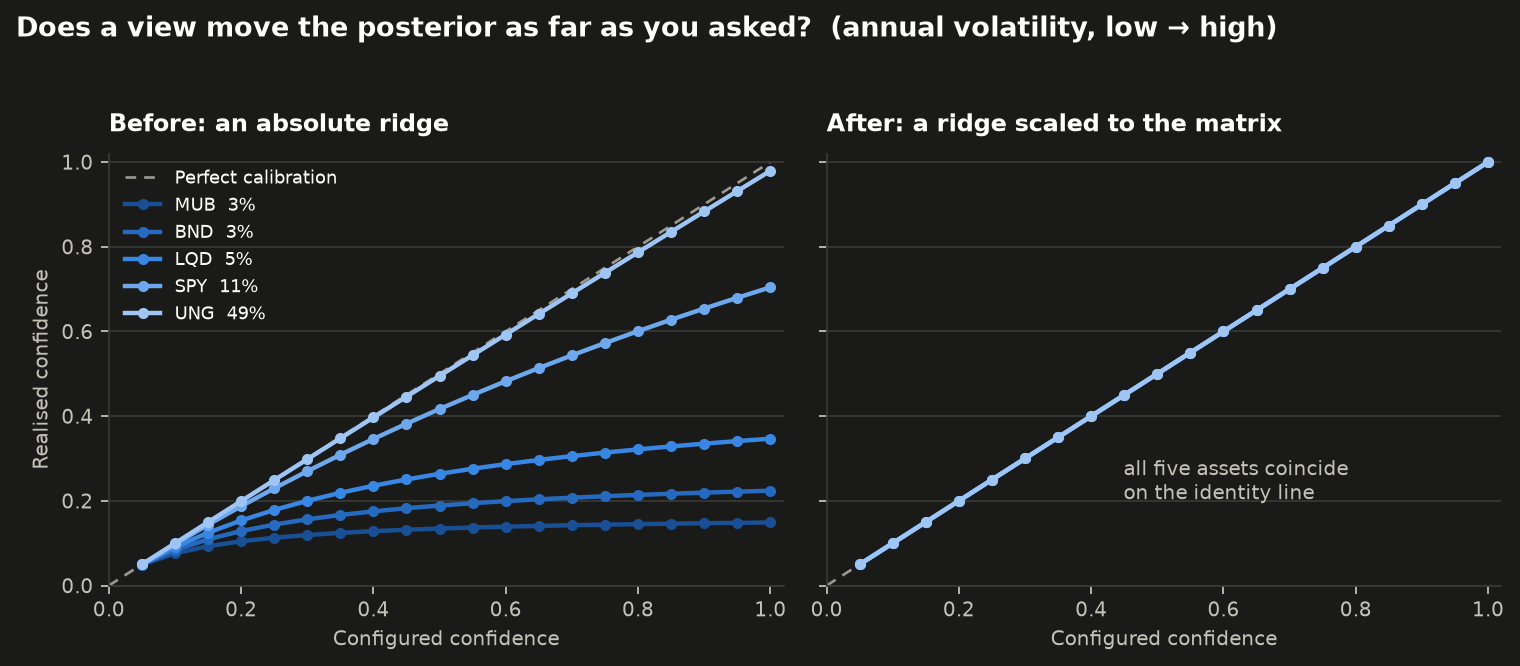
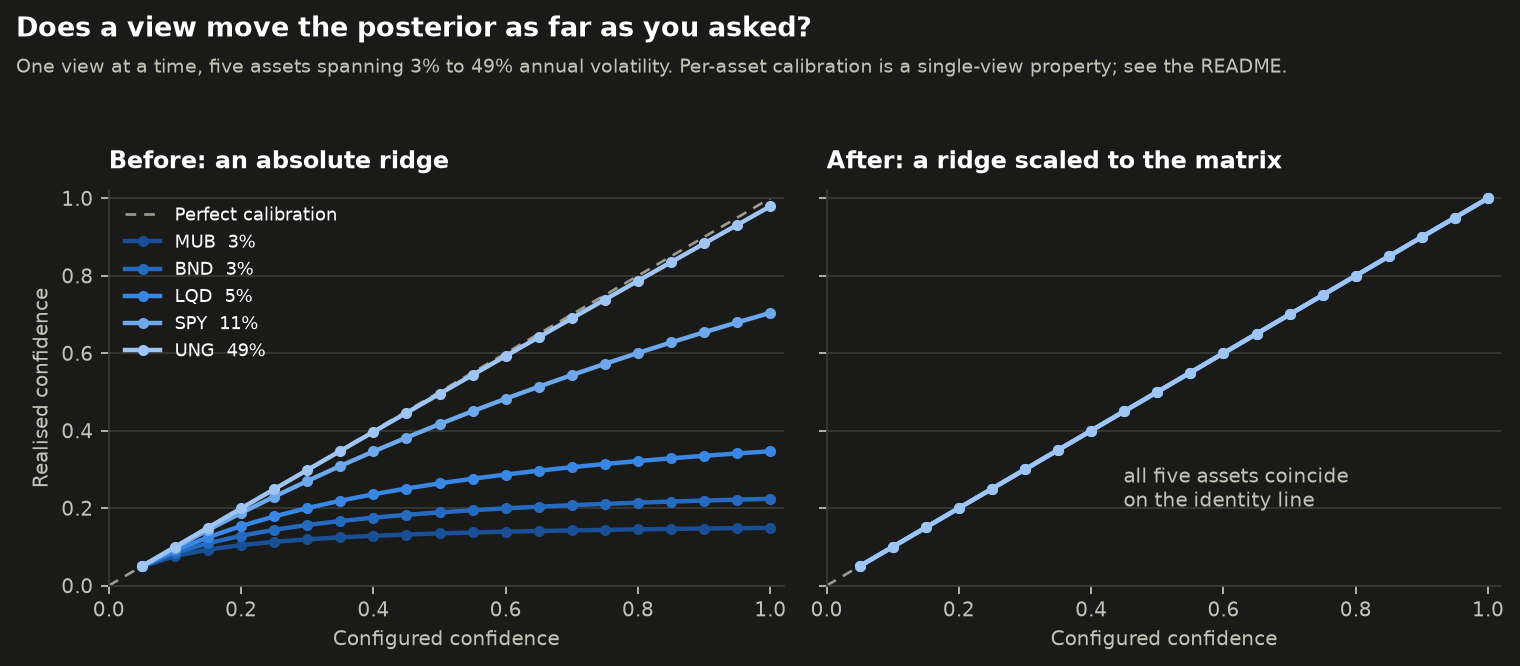
Scope the calibration claim to the single-view case
An adversarial review of the previous commit found that its headline claim
was true only in the regime it was tested in, and that the shipped default
is not that regime.

Setting Omega proportional to diag(P tau Sigma P') makes the posterior move
exactly the configured fraction c of the way toward a view when there is one
view, or when Sigma is diagonal. It does not do so per asset once several
views are active over a correlated Sigma, because Omega is diagonal while
the inverse of tau*Sigma is not, so each view's information is pooled across
correlated assets. The default use_sample_mean_views: true stacks one view
per asset, so that is exactly the configuration the project ships.

Measured on the last Buffett window at a configured 0.65, the per-asset
fraction ranges from -2.64 to 2.16: some assets move away from their own
view because a correlated neighbour's view outweighs it. Forcing Sigma
diagonal returns every asset to 0.65, which isolates the off-diagonal terms
as the cause. This is ordinary Bayesian updating with correlated evidence
rather than a defect, and it is unchanged by the previous commit: the
deviation is slightly smaller for Buffett and Pelosi afterwards and slightly
larger for Trump. But the README asserted a per-asset guarantee that the
model does not provide, and it had deleted the more careful caveat that
preceded it.

The verification gap was systematic and mine: all six tests added with the
[…]

diff --git a/tests/test_views.py b/tests/test_views.py
@@ -225,6 +225,49 @@ def test_realised_confidence_holds_for_relative_views() -> None:
         assert _realised_confidence(cov, pi, row, c) == pytest.approx(c, abs=1e-4)
 
 
+def _stacked_realised(cov: np.ndarray, pi: np.ndarray, q: np.ndarray, c: float) -> np.ndarray:
+    """Per-asset realised fraction when one view per asset is active at once."""
+    p = np.eye(len(pi))
+    omega = diagonal_omega_from_confidence(cov, p, tau=0.05, confidence=c)
+    mu, _ = black_litterman_posterior(pi, cov, p, q, tau=0.05, omega=omega)
+    return (mu - pi) / (q - pi)
+
+
+def test_stacked_views_are_calibrated_only_when_sigma_is_diagonal() -> None:
+    """Per-asset calibration is a single-view property, not a general one.
+
+    With one view per asset active at once, Omega is diagonal but (tau*Sigma)^-1
+    is not, so the posterior pools each view's information across correlated
+    assets. That is ordinary Bayesian updating, not a defect, but it means the
+    configured confidence is not a per-asset guarantee in the shipped default
+    configuration. This test pins the boundary so the limitation cannot be
+    documented away again.
+    """
+    correlated = np.array(
+        [[4.0e-4, 3.4e-4, 1.0e-5], [3.4e-4, 4.0e-4, 1.0e-5], [1.0e-5, 1.0e-5, 9.0e-4]]
+    )
+    pi = np.array([3.0e-4, 3.0e-4, 5.0e-4])
+    q = pi + np.array([2.0e-4, -2.0e-4, 1.0e-4])
+    c = 0.65
+
+    # Correlated Sigma: at least one asset misses its configured fraction badly.
+    spread = _stacked_realised(correlated, pi, q, c)
+    assert np.abs(spread - c).max() > 0.2, (
+        "expected stacked views over a correlated Sigma to break per-asset calibration"
+    )
+
+    # The same stack over a diagonal Sigma is exactly calibrated, which isolates
+    # the off-diagonal terms as the cause rather than the regularisation.
+    diagonal = np.diag(np.diag(correlated))
+    np.testing.assert_allclose(_stacked_realised(diagonal, pi, q, c), c, atol=1e-4)
+
+    # And a single view on the same correlated Sigma is still exact.
+    for i in range(3):
+        row = np.zeros(3)
+        row[i] = 1.0
+        assert _realised_confidence(correlated, pi, row, c) == pytest.approx(c, abs=1e-4)
+
+
 def test_realised_confidence_is_exact_without_the_ridge() -> None:
     """With the ridge disabled the calibration identity holds exactly."""
     cov = np.diag([1e-8, 1e-2]).astype(float)

diff --git a/scripts/make_figures.py b/scripts/make_figures.py
@@ -211,9 +211,13 @@ def fig_calibration(calib, theme):
                      xy=(0.44, 0.20), xycoords="axes fraction",
                      fontsize=9, color=theme["secondary"], ha="left")
     fig.suptitle(
-        "Does a view move the posterior as far as you asked?  (annual volatility, low → high)",
+        "Does a view move the posterior as far as you asked?",
         x=0.005, ha="left", fontsize=12, fontweight="bold", color=theme["primary"])
-    fig.tight_layout(rect=(0, 0, 1, 0.94))
+    fig.text(0.005, 0.895,
+             "One view at a time, five assets spanning 3% to 49% annual volatility. "
+             "Per-asset calibration is a single-view property; see the README.",
+             ha="left", fontsize=8.5, color=theme["secondary"])
+    fig.tight_layout(rect=(0, 0, 1, 0.885))
     save(fig, "confidence-calibration", theme)
 
 

diff --git a/README.md b/README.md
@@ -237,20 +237,22 @@ other two rather than an independent third model.
 </picture>
 
 
-> **The confidence axis is calibrated.** Earlier versions added a fixed absolute `1e-6` to
+> **The confidence axis is calibrated for a single view.** Earlier versions added a fixed absolute `1e-6` to
 > the view-uncertainty matrix. Because that matrix holds per-period variances spanning
 > roughly `7e-8` to `6e-5` on these universes, the constant ranged from negligible to 41
 > times the quantity it was meant to stabilise, and the confidence a user configured was not
 > the one they got: a configured 0.65 realised as 0.14 for MUB and 0.64 for UNG. The
-> regularisation is now proportional to each asset's own variance, so the realised value
-> equals the configured one for every asset to within `2e-6`, and exactly when the ridge is
-> disabled. Read this column as the calibrated quantity it now is. The figures above are
-> post-fix; the correction moved the Trump mean-variance Sharpe from 0.85 to 0.80, that
-> case study having the worst-conditioned covariance.
+> regularisation is now proportional to each asset's own variance, so for a single view the
+> realised value equals the configured one for every asset to within `2e-6`, and exactly when
+> the ridge is disabled. The sweep above stacks one view per asset, where per-asset
+> calibration does not hold and `c` acts as a dial on the set of views rather than a per-asset
+> guarantee; see [Methodology](#methodology). The figures above are post-fix; the correction
+> moved the Trump mean-variance Sharpe from 0.85 to 0.80, that case study having the
+> worst-conditioned covariance.
 
 <picture>
   <source media="(prefers-color-scheme: dark)" srcset="docs/figures/confidence-calibration-dark.png">
-  <img alt="Realised versus configured view confidence for five assets spanning 3 to 49 percent annual volatility. Before the fix the lines fan out well below the identity line, with the least volatile asset reaching only 0.15 at full confidence. After the fix all five lie on the identity line." src="docs/figures/confidence-calibration.png">
+  <img alt="Realised versus configured view confidence for five assets spanning 3 to 49 percent annual volatility, measured one view at a time. Before the fix the lines fan out well below the identity line, with the least volatile asset reaching only 0.15 at full confidence. After the fix all five lie on the identity line. This single-view regime is the one in which per-asset calibration holds." src="docs/figures/confidence-calibration.png">
 </picture>
 
 
@@ -338,9 +340,23 @@ Each view's uncertainty is its own prior variance under the model, scaled by `(1
 approaches 0, the view is ignored. `Omega` is diagonal by construction, so view errors are
 assumed independent even when two views overlap on the same asset.
 
-This mapping is calibrated: the posterior moves exactly the configured fraction `c` of the
-way from the prior to the view, for every asset regardless of its volatility. A view set to
-0.65 lands 65% of the way there whether it names a municipal bond fund or a meme stock.
+**What `c` does and does not promise.** For a *single* view, the posterior moves exactly the
+fraction `c` of the way from the prior to that view, and it does so regardless of the asset's
+volatility: a lone view set to 0.65 lands 65% of the way there whether it names a municipal
+bond fund or a meme stock. The same holds for any number of views when `Sigma` is diagonal.
+
+It does **not** hold per asset once several views are active over a correlated `Sigma`, which
+is the shipped default, because `use_sample_mean_views: true` stacks one view per asset. There
+`Omega` is diagonal while `(tau*Sigma)^-1` is not, so the posterior pools each view's
+information across correlated assets. Measured on the last Buffett window at a configured
+0.65, the per-asset fraction ranges from -2.64 to 2.16: some assets move away from their own
+view because a correlated neighbour's view outweighs it. That is ordinary Bayesian updating
+with correlated evidence rather than a defect, and forcing `Sigma` diagonal returns every
+asset to exactly 0.65. But it does mean "0.65 means 65% of the way for this asset" is the
+wrong mental model in the default configuration. Read `c` there as a dial on how much the
+views as a set move the posterior, not as a per-asset guarantee. Idzorek's method, which
+solves for the `Omega` that achieves a target tilt, is the standard way to recover a per-view
+interpretation under stacking; it is not implemented here.
 
 **4. The default views are the trailing sample means.** With `use_sample_mean_views: true`
 the pipeline stacks one absolute view per asset:
@@ -363,10 +379,12 @@ Multiplying `mu` by 0.5, 2.5 or 10 returns bit-identical weights. `lambda` scale
 it too washes out.
 
 **`tau` cancels out of the posterior mean entirely.** Because `Omega` is derived from the
-same `tau * Sigma`, `tau` appears on both sides and drops out: with the ridge disabled,
-`mu_BL` is identical to machine precision for `tau = 0.005` and `tau = 5`. It reaches the
-weights only through `Sigma_BL = Sigma + inv(M)`. End to end on the Buffett case, moving
-`tau` from 0.05 to 0.5 shifts individual weights by at most 0.03, and to 5.0 by at most 0.43.
+same `tau * Sigma`, `tau` appears on both sides and drops out: `mu_BL` is identical to machine
+precision for `tau = 0.005` and `tau = 5`. Since the regularisation became relative this holds
+with the ridge active, because the ridge on `Omega` is scaled by a quantity that carries `tau`
+too. `tau` reaches the weights only through `Sigma_BL = Sigma + inv(M)`. End to end on the
+Buffett case, moving `tau` from 0.05 to 0.5 shifts individual weights by at most 0.044, and to
+5.0 by at most 0.448.
 Treat `tau` as a knob on the posterior covariance, not on how strongly views are applied.
 Use `view_confidence` for that.
 
